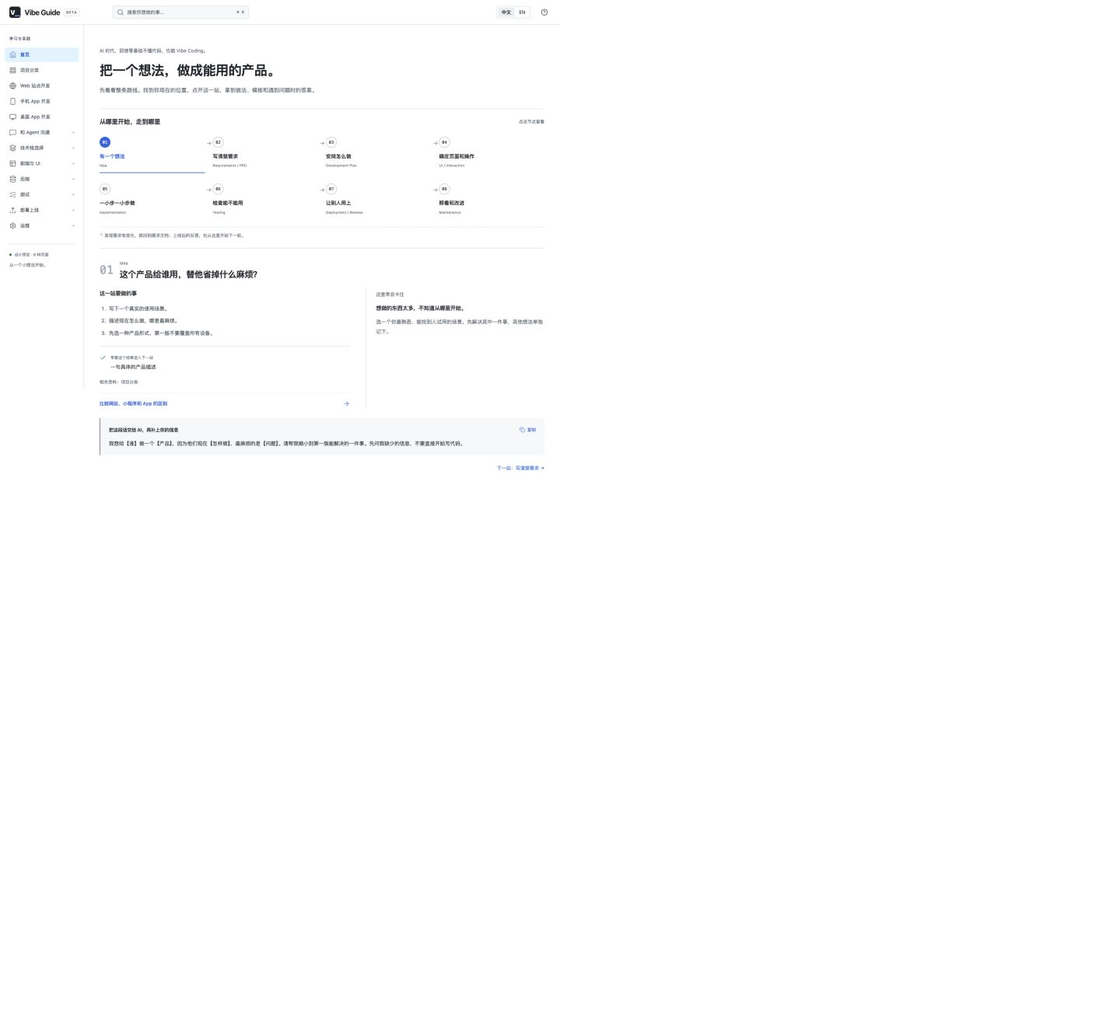
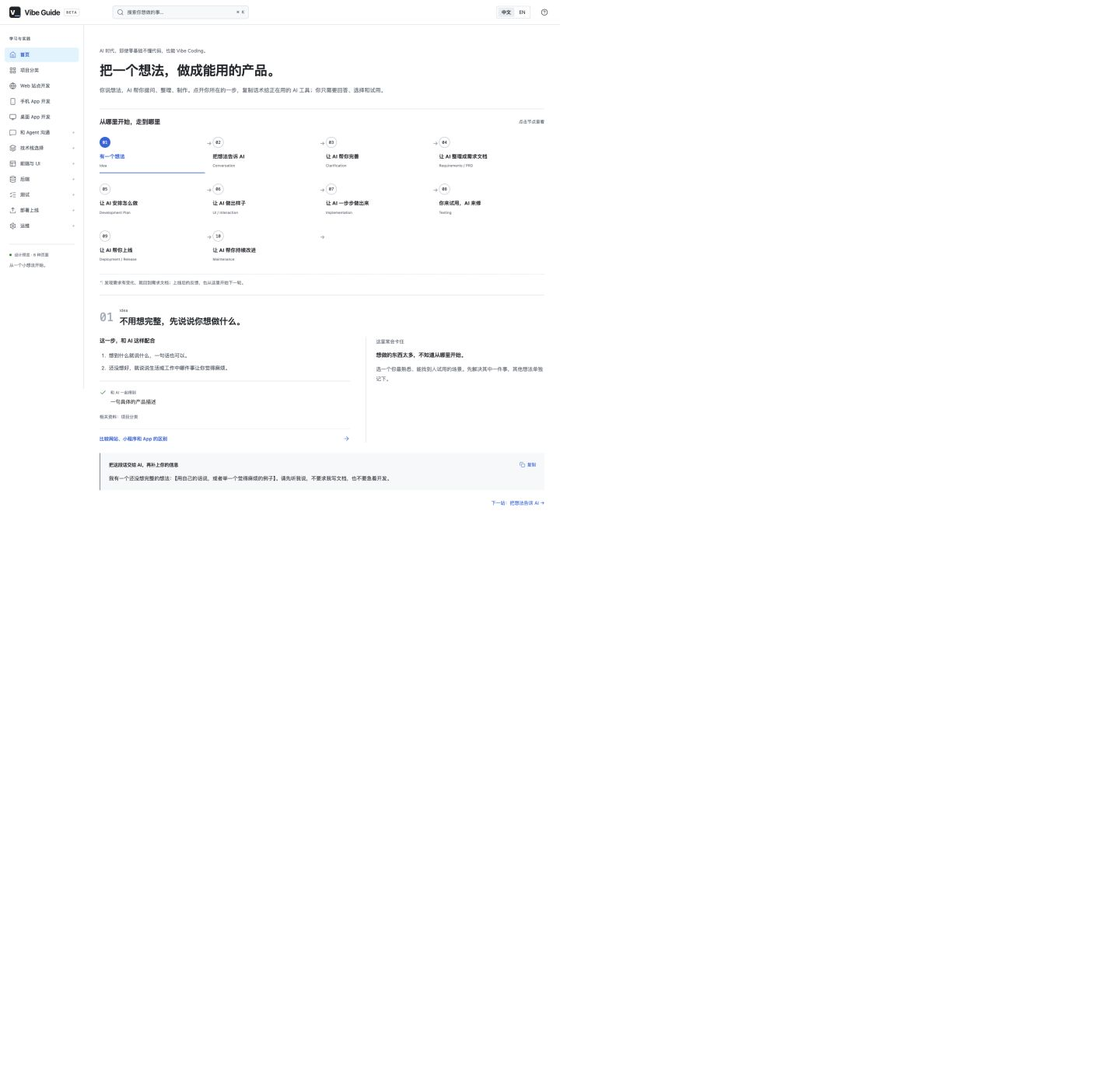
fix: make journey AI-led and reduce beginner effort

diff --git a/src/data/journey.ts b/src/data/journey.ts
@@ -1,12 +1,14 @@
 import type {Copy} from './site';
 export interface Stage {id:string; title:Copy; term:string; question:Copy; output:Copy; actions:Copy[]; problem:Copy; answer:Copy; prompt:Copy; modules:Copy;}
 export const journey:Stage[]=[
-{id:'idea',title:['有一个想法','Start with an idea'],term:'Idea',question:['这个产品给谁用，替他省掉什么麻烦？','Who is it for, and what problem will it solve?'],output:['一句具体的产品描述','A specific product description'],actions:[['写下一个真实的使用场景。','Write down one real situation.'],['描述现在怎么做，哪里最麻烦。','Describe the current process and its hardest part.'],['先选一种产品形式，第一版不要覆盖所有设备。','Choose one product type first, rather than every device.']],problem:['想做的东西太多，不知道从哪里开始。','Too many ideas. Where should I start?'],answer:['选一个你最熟悉、能找到人试用的场景。先解决其中一件事，其他想法单独记下。','Choose a familiar situation with someone who can try the result. Solve one problem and keep the other ideas for later.'],prompt:['我想给【谁】做一个【产品】，因为他们现在【怎样做】，最麻烦的是【问题】。请帮我缩小到第一版能解决的一件事。先问我缺少的信息，不要直接开始写代码。','I want to make [product] for [people]. Today they [current process], and the main difficulty is [problem]. Help me narrow the first version to one useful task. Ask for missing information before writing code.'],modules:['项目分类','Project types']},
-{id:'requirements',title:['写清楚需求','Write the requirements'],term:'Requirements / PRD',question:['用户要能做什么，做到什么程度才算完成？','What should people be able to do, and what counts as done?'],output:['需求文档：记录给谁用、做什么和完成标准','A requirements document: audience, features, and acceptance criteria'],actions:[['列出用户从打开产品到完成目标的操作。','List the steps from opening the product to completing the task.'],['明确第一版必须做、暂时不做的功能。','Separate essential features from things that can wait.'],['每个功能写一条你能亲手检查的结果。','Give each feature a result you can check yourself.']],problem:['AI 一直加功能，越做越偏。','AI keeps adding features and drifting off course.'],answer:['把“不做什么”写进文档。新想法先放进后续清单，修改本版范围前先确认影响。','Write down what is out of scope. Keep new ideas in a later list and review their impact before changing this version.'],prompt:['请把我们确认的想法整理成需求文档，包含：使用者、解决的问题、主要操作流程、第一版功能、暂不做的功能、每项功能的检查方法。把还没确定的问题单独列出，不要替我猜。先给我检查，不开始开发。','Turn our agreed idea into a requirements document: users, problem, main flow, first-version features, excluded features, and a check for each feature. List unresolved questions separately rather than guessing. Let me review it before development.'],modules:['和 Agent 沟通 · 项目分类','Talking to agents · Project types']},
-{id:'plan',title:['安排怎么做','Plan the build'],term:'Development Plan',question:['用什么制作，先做哪一步，需要准备哪些账号和资料？','What will we use, what comes first, and what must be prepared?'],output:['开发文档：把需求变成制作方案和任务顺序','A development plan: tools, decisions, and ordered tasks'],actions:[['把已确认的需求文档交给 AI。','Give AI the agreed requirements document.'],['说明预算、设备、资料是否需要保存或多人共享。','State your budget, devices, and storage or sharing needs.'],['要求每个任务都有能打开检查的小成果。','Ask for a small, inspectable result from every task.']],problem:['AI 推荐一堆技术名字，我根本不知道怎么选。','AI lists technologies I don’t know how to choose.'],answer:['先让它解释每项技术解决什么问题、是否收费、为什么现在需要。不理解的选择先说明，再写入方案。','Ask what each tool solves, whether it costs money, and why it is needed now. Clarify the choice before adding it to the plan.'],prompt:['依据这份需求文档，制定开发文档：页面与主要操作、资料怎么保存、建议的技术和选择理由、需要我准备的账号与费用、分步任务、每一步如何检查。用普通人能理解的语言解释技术名称。未确认的选择标记待确认，不要直接开工。','Create a development plan from these requirements: pages and flows, data storage, proposed tools with reasons, accounts and costs, ordered tasks, and checks for each step. Explain technical names in plain language. Mark unresolved choices rather than starting immediately.'],modules:['技术栈选择 · 后端 · 和 Agent 沟通','Choosing a stack · Backend · Talking to agents']},
-{id:'ui',title:['确定页面和操作','Shape the interface'],term:'UI / Interaction',question:['页面长什么样，点一个地方之后会发生什么？','What will people see, and what happens when they click?'],output:['页面草图和交互说明','Page sketches and interaction notes'],actions:[['先排列内容和主要操作，再确定颜色和细节。','Arrange content and main actions before choosing visual details.'],['看到想要的组件时，找到名字、演示和描述话术。','Find the name, demo, and description of the component you want.'],['说明等待、没内容、出错时分别显示什么。','Describe loading, empty, and error states.']],problem:['我知道想要什么样子，却不知道怎么告诉 AI。','I can picture it, but don’t know what to tell AI.'],answer:['把截图圈出具体区域，补充操作前后会发生什么。例如 Tabs（标签页）：点击不同标题，在同一块区域切换内容，不跳到新页面。','Mark the relevant area in a screenshot and describe before-and-after behavior. For example, tabs switch content in one area when you click a label, without opening a new page.'],prompt:['这里需要 Tabs（标签页）：顶部显示“介绍、价格、常见问题”，默认显示介绍。点击标题只切换下方内容，不打开新页面；当前标题有清楚的选中状态。手机上也能使用，键盘能切换。请先做这个局部让我检查，再应用到完整页面。','Add tabs labeled Overview, Pricing, and FAQ. Show Overview initially. Clicking a tab should change the content below without opening a new page, with a clear selected state. Support phones and keyboard navigation. Show this component for review before adding it to the whole page.'],modules:['前端与 UI → 组件词典（原 HTML 分支，待迁移）','Frontend & UI → Component dictionary (legacy branch, migration pending)']},
-{id:'build',title:['一小步一小步做','Build in small steps'],term:'Implementation',question:['先让哪条操作真正走通？','Which flow should work first?'],output:['一个能运行、能亲手操作的版本','A working version you can try'],actions:[['按开发文档一次完成一个任务。','Work on one task from the plan at a time.'],['自己打开结果，不只看 AI 的完成描述。','Open the result yourself rather than relying on AI’s summary.'],['每个可用版本保存一个可恢复的记录。','Keep a recoverable snapshot of each working version.']],problem:['昨天还能用，今天改完却坏了。','It worked yesterday, but today’s change broke it.'],answer:['让 AI 比较上一个可用版本和本次改动，先定位受影响的操作。恢复前说明会丢掉哪些改动，不要盲目覆盖。','Ask AI to compare the last working version with the changes and identify the affected flow. Before restoring, check which changes would be lost.'],prompt:['按开发文档只完成下一个任务【任务名】，保持其他已完成的功能不变。完成后告诉我怎样打开、点哪里、预期看到什么，并列出未完成部分。检查通过后记录这个可用版本，再继续。','Complete only the next task [name] from the development plan. Preserve existing behavior. Tell me how to open it, what to click, and what to expect, and list anything unfinished. After checking, save a recoverable version before continuing.'],modules:['Web / 手机 / 桌面开发 · 和 Agent 沟通','Web / Mobile / Desktop development · Talking to agents']},
-{id:'test',title:['检查能不能用','Check it works'],term:'Testing',question:['按真实用户的方式操作，会在哪里出问题？','Where does it fail when someone actually uses it?'],output:['检查结果和待修复问题清单','Test results and a list of issues'],actions:[['对照需求文档，一项一项实际操作。','Try every acceptance check in the requirements.'],['试试空内容、重复点击、错误输入和网络异常。','Try empty fields, repeated clicks, invalid input, and connection failures.'],['记录操作步骤、期待结果和实际结果。','Record steps, expected results, and actual results.']],problem:['AI 说测试通过，我点开还是有问题。','AI says tests passed, but I still see a problem.'],answer:['测试通过只说明它检查过的部分。把你实际失败的步骤交给 AI，让它修复后重新走同一条流程。','A passed test only covers what was checked. Give AI your failing steps, then repeat that exact flow after the fix.'],prompt:['我执行了【步骤】，期待【结果】，实际【现象】。请先找原因，再做最小修复。修复后重复这些步骤，并检查相关功能有没有受影响。分别说明自动检查和实际操作的结果，没有检查的部分明确列出。','I followed [steps], expected [result], but saw [actual behavior]. Find the cause and make a focused fix. Repeat these steps and check related behavior. Separate automated checks from actual interaction results, and list anything untested.'],modules:['测试 · 后端 · 前端与 UI','Testing · Backend · Frontend & UI']},
-{id:'launch',title:['让别人用上','Release it'],term:'Deployment / Release',question:['离开你的电脑，别人也能打开或安装吗？','Can someone else open or install it away from your computer?'],output:['可访问的网址或可安装的发布版本','A usable public link or installable release'],actions:[['确认发布渠道、账号、费用和需要提供的材料。','Confirm the channel, account, costs, and required materials.'],['检查公开内容不包含密码、密钥和私人测试资料。','Check that public files exclude passwords, keys, and private test data.'],['从正式入口再走一遍主要操作，并准备恢复办法。','Try the main flow through the released version and prepare a recovery plan.']],problem:['本机可以用，发给别人却打不开。','It works for me, but other people cannot open it.'],answer:['确认分享的是正式网址或安装包，而不是只在本机可用的预览地址。记录对方设备和具体提示，再检查。','Check that you shared a released URL or installer rather than a local preview address. Record the other person’s device and exact message.'],prompt:['请根据我的产品类型列出发布步骤、费用和所需账号。先检查发布包不含私人资料，并准备恢复到上一版的方法。发布前让我确认目标和费用；发布后从正式入口验证主要流程，区分已完成和仍需我操作的部分。','List release steps, costs, and accounts for this product type. Check for private data in the release and prepare a way back to the previous version. Let me confirm the destination and costs before release. Verify the main flow through the live entry point and state what still needs my action.'],modules:['部署上线 · 项目对应平台','Deployment · Your target platform']},
-{id:'maintain',title:['照看和改进','Maintain and improve'],term:'Maintenance',question:['有人使用之后，怎样保持可用、控制费用并改进？','How will it stay useful, reliable, and affordable?'],output:['维护清单和下一版计划','A maintenance checklist and next-version plan'],actions:[['记录费用、到期时间和重要资料的备份办法。','Record costs, renewal dates, and backup arrangements.'],['收集具体使用问题，优先修复影响主要操作的故障。','Collect specific problems and prioritize broken core flows.'],['更新前保存旧版本，更新后再检查原有功能。','Save the previous version before updates and recheck existing flows.']],problem:['每次加新功能，旧功能就出问题。','New features keep breaking existing ones.'],answer:['保留一份主要操作检查表，每次更新都重复检查。较大的新需求重新回到需求节点，确认范围后再做。','Keep a core-flow checklist and repeat it with every update. Return larger changes to the requirements stage before building.'],prompt:['请为当前产品整理维护清单：服务与费用、续期时间、备份和恢复办法、每次更新必须检查的操作。把用户反馈分成故障和新需求；先处理故障，新需求回到需求文档确认后再安排。','Create a maintenance checklist: services and costs, renewals, backups and recovery, and checks required for each update. Separate bug reports from new requests. Fix problems first and confirm new requests in the requirements before scheduling them.'],modules:['运维 · 测试 · 需求文档','Maintenance · Testing · Requirements']}
+{id:'idea',title:["有一个想法", "Have an idea"],term:'Idea',question:["不用想完整，先说说你想做什么。", "It does not need to be complete. What would you like to make?"],output:['一句具体的产品描述','A specific product description'],actions:[["想到什么就说什么，一句话也可以。", "Say whatever you have in mind. One sentence is enough."], ["还没想好，就说说生活或工作中哪件事让你觉得麻烦。", "If you are unsure, describe something frustrating at work or in daily life."]],problem:['想做的东西太多，不知道从哪里开始。','Too many ideas. Where should I start?'],answer:['选一个你最熟悉、能找到人试用的场景。先解决其中一件事，其他想法单独记下。','Choose a familiar situation with someone who can try the result. Solve one problem and keep the other ideas for later.'],prompt:["我有一个还没想完整的想法：【用自己的话说，或者举一个觉得麻烦的例子】。请先听我说，不要求我写文档，也不要急着开发。", "I have a rough idea: [describe it in your own words, or give an example of something frustrating]. Help me explore it without asking me to write a document or starting development yet."],modules:['项目分类','Project types']},
+{"id": "tell", "title": ["把想法告诉 AI", "Tell AI your idea"], "term": "Conversation", "question": ["把刚才那句话发给 AI，不用换成专业说法。", "Send your idea to AI in your own words."], "output": ["一段已经开始的对话", "A conversation you have started"], "actions": [["打开你正在用的 AI 工具，把想法输入或说给它听。", "Open the AI tool you use and type or speak your idea."], ["不知道怎么开口，就复制下面这段话，补上一句话。", "If you are unsure how to start, copy the prompt below and add a sentence."]], "problem": ["我连应该告诉 AI 哪些信息都不知道。", "I do not know what information AI needs."], "answer": ["直接告诉它“我不懂开发，请你问我”。不用先填写一大张表，也不用提前认识技术名词。", "Tell it: “I do not know development. Please ask me what you need.” You do not need a long form or technical vocabulary first."], "prompt": ["我不懂开发，想做【用一句话说你的想法】。请你先和我聊聊，帮我弄清楚这个东西可以怎么做。不要让我先写需求文档，也不要一上来就写代码。", "I do not know development. I want to make [your idea in one sentence]. Talk it through with me and help me understand what it could be. Do not ask me to write requirements first or start coding immediately."], "modules": ["和 Agent 沟通", "Talking to agents"]},
+{"id": "refine", "title": ["让 AI 帮你完善", "Let AI help refine it"], "term": "Clarification", "question": ["让 AI 一次问一个问题，你按实际情况回答就好。", "Let AI ask one question at a time. Answer from your own experience."], "output": ["你和 AI 确认过的第一版想法", "A first-version idea you and AI have agreed on"], "actions": [["让 AI 问清楚给谁用、想解决什么麻烦。", "Let AI ask who it is for and what problem it should solve."], ["回答不上来时，让 AI 给几个例子，你选更接近的。", "If you cannot answer, ask AI for examples and choose the closest."], ["让 AI 建议第一版先做什么，你确认有没有偏离原意。", "Ask AI to suggest a small first version, then check that it still matches your idea."]], "problem": ["AI 一下问了十几个问题，看着就不想做了。", "AI asks a dozen questions at once and it feels overwhelming."], "answer": ["让它一次只问一个，用生活中的例子解释。你可以回答“不知道”，让它给出建议和理由，再由你选择。", "Ask for one question at a time with everyday examples. You can say “I do not know” and ask it for a recommendation and reasons."], "prompt": ["请帮我完善这个想法，一次只问一个问题。我不确定时，给我两三个容易理解的例子，并说明你推荐哪个、为什么。聊完后，用普通话复述第一版要做什么、暂时不做什么，让我确认。", "Help me refine the idea, asking one question at a time. When I am unsure, give two or three plain-language examples and explain your recommendation. When we finish, summarize what the first version includes and leaves out, and let me confirm."], "modules": ["和 Agent 沟通 · 项目分类", "Talking to agents · Project types"]},
+{id:'requirements',title:["让 AI 整理成需求文档", "Let AI document the idea"],term:'Requirements / PRD',question:["聊清楚之后，让 AI 整理，你来看看有没有理解错。", "Once you have talked it through, let AI write it up and check that it understood."],output:['需求文档：记录给谁用、做什么和完成标准','A requirements document: audience, features, and acceptance criteria'],actions:[["把前面聊过的内容交给 AI，让它整理成一份需求文档。", "Ask AI to turn the conversation into a requirements document."], ["你只需要看看：是不是你想做的东西，有没有多做或漏掉。", "Check whether it matches your idea and includes too much or too little."], ["不明白的地方让 AI 举例，确认后让它保存文档。", "Ask AI for examples where needed, then have it save the agreed document."]],problem:['AI 一直加功能，越做越偏。','AI keeps adding features and drifting off course.'],answer:['把“不做什么”写进文档。新想法先放进后续清单，修改本版范围前先确认影响。','Write down what is out of scope. Keep new ideas in a later list and review their impact before changing this version.'],prompt:['请把我们确认的想法整理成需求文档，包含：使用者、解决的问题、主要操作流程、第一版功能、暂不做的功能、每项功能的检查方法。把还没确定的问题单独列出，不要替我猜。先给我检查，不开始开发。','Turn our agreed idea into a requirements document: users, problem, main flow, first-version features, excluded features, and a check for each feature. List unresolved questions separately rather than guessing. Let me review it before development.'],modules:['和 Agent 沟通 · 项目分类','Talking to agents · Project types']},
+{id:'plan',title:["让 AI 安排怎么做", "Let AI plan the build"],term:'Development Plan',question:["让 AI 推荐做法并解释，你只需要确认是否适合自己。", "Let AI recommend and explain a plan. Decide whether it fits your needs."],output:['开发文档：把需求变成制作方案和任务顺序','A development plan: tools, decisions, and ordered tasks'],actions:[["让 AI 读取需求文档，推荐制作方式并说清理由。", "Ask AI to read the requirements and recommend how to build, with reasons."], ["按 AI 的提问补充预算和设备；不懂技术名称就让它解释。", "Answer questions about budget and devices. Ask it to explain unfamiliar terms."], ["让 AI 整理开发文档，说明每一步会给你看什么结果。", "Have AI write the development plan and explain what you will see at each step."]],problem:['AI 推荐一堆技术名字，我根本不知道怎么选。','AI lists technologies I don’t know how to choose.'],answer:['先让它解释每项技术解决什么问题、是否收费、为什么现在需要。不理解的选择先说明，再写入方案。','Ask what each tool solves, whether it costs money, and why it is needed now. Clarify the choice before adding it to the plan.'],prompt:['依据这份需求文档，制定开发文档：页面与主要操作、资料怎么保存、建议的技术和选择理由、需要我准备的账号与费用、分步任务、每一步如何检查。用普通人能理解的语言解释技术名称。未确认的选择标记待确认，不要直接开工。','Create a development plan from these requirements: pages and flows, data storage, proposed tools with reasons, accounts and costs, ordered tasks, and checks for each step. Explain technical names in plain language. Mark unresolved choices rather than starting immediately.'],modules:['技术栈选择 · 后端 · 和 Agent 沟通','Choosing a stack · Backend · Talking to agents']},
+{id:'ui',title:["让 AI 做出样子", "Let AI show the design"],term:'UI / Interaction',question:["把喜欢的样子交给 AI，先看效果再调整。", "Show AI what you like, then review and adjust its preview."],output:['页面草图和交互说明','Page sketches and interaction notes'],actions:[["给 AI 一张参考图，或从组件示例中选一个喜欢的效果。", "Give AI a reference image or choose a component example you like."], ["让 AI 先做一个能看的页面，你指出哪里喜欢、哪里不对。", "Ask AI for a page preview. Point out what you like and what feels wrong."], ["让 AI 补齐等待、空内容和出错时的显示，再带你检查。", "Ask AI to add loading, empty, and error states and guide you through checking them."]],problem:['我知道想要什么样子，却不知道怎么告诉 AI。','I can picture it, but don’t know what to tell AI.'],answer:['把截图圈出具体区域，补充操作前后会发生什么。例如 Tabs（标签页）：点击不同标题，在同一块区域切换内容，不跳到新页面。','Mark the relevant area in a screenshot and describe before-and-after behavior. For example, tabs switch content in one area when you click a label, without opening a new page.'],prompt:['这里需要 Tabs（标签页）：顶部显示“介绍、价格、常见问题”，默认显示介绍。点击标题只切换下方内容，不打开新页面；当前标题有清楚的选中状态。手机上也能使用，键盘能切换。请先做这个局部让我检查，再应用到完整页面。','Add tabs labeled Overview, Pricing, and FAQ. Show Overview initially. Clicking a tab should change the content below without opening a new page, with a clear selected state. Support phones and keyboard navigation. Show this component for review before adding it to the whole page.'],modules:['前端与 UI → 组件词典（原 HTML 分支，待迁移）','Frontend & UI → Component dictionary (legacy branch, migration pending)']},
+{id:'build',title:["让 AI 一步步做出来", "Let AI build it step by step"],term:'Implementation',question:["让 AI 按计划制作，每做好一小步就给你试。", "Have AI follow the plan and give you something to try after each small step."],output:['一个能运行、能亲手操作的版本','A working version you can try'],actions:[["让 AI 从开发文档中选出下一项任务并完成。", "Have AI pick and complete the next task from the development plan."], ["按 AI 给的打开方式试用，把不符合想法的地方告诉它。", "Try the result using AI’s instructions and tell it what does not match your idea."], ["让 AI 保存可恢复的版本，再继续下一项。", "Ask AI to save a recoverable version before continuing."]],problem:['昨天还能用，今天改完却坏了。','It worked yesterday, but today’s change broke it.'],answer:['让 AI 比较上一个可用版本和本次改动，先定位受影响的操作。恢复前说明会丢掉哪些改动，不要盲目覆盖。','Ask AI to compare the last working version with the changes and identify the affected flow. Before restoring, check which changes would be lost.'],prompt:["请读取开发文档，告诉我接下来应该做哪一项，并完成这一项。保持已完成的功能不变。完成后带我打开试用，说明点哪里、应该看到什么。等我检查后保存可恢复的版本，再继续。", "Read the development plan, identify the next task, and complete it without changing working features. Show me how to open and try it, what to click, and what to expect. After I check it, save a recoverable version before continuing."],modules:['Web / 手机 / 桌面开发 · 和 Agent 沟通','Web / Mobile / Desktop development · Talking to agents']},
+{id:'test',title:["你来试用，AI 来修", "You try it, AI fixes it"],term:'Testing',question:["AI 先检查，再带你实际用一遍；哪里不对就告诉它。", "Let AI check first, then guide you through trying it. Tell it what goes wrong."],output:['检查结果和待修复问题清单','Test results and a list of issues'],actions:[["让 AI 根据需求文档检查功能，并列出没检查到的部分。", "Ask AI to check features against the requirements and list anything untested."], ["让 AI 告诉你点哪里、应该看到什么，你照着试。", "Have AI tell you what to click and what to expect, then try it."], ["遇到问题，把现象或截图交给 AI，让它排查、修复并带你复查。", "Give AI the symptom or a screenshot so it can investigate, fix it, and guide a recheck."]],problem:['AI 说测试通过，我点开还是有问题。','AI says tests passed, but I still see a problem.'],answer:['测试通过只说明它检查过的部分。把你实际失败的步骤交给 AI，让它修复后重新走同一条流程。','A passed test only covers what was checked. Give AI your failing steps, then repeat that exact flow after the fix.'],prompt:["请先按需求文档检查当前版本，明确哪些实际检查过、哪些还没检查。然后带我一步步试用：每次告诉我点哪里、应该看到什么，等我反馈。发现问题后帮我排查和修复，再带我重试。", "Check this version against the requirements and state what was actually tested and what was not. Then guide me through trying it: tell me what to click and what to expect, and wait for my feedback. Investigate and fix any problems, then help me try again."],modules:['测试 · 后端 · 前端与 UI','Testing · Backend · Frontend & UI']},
+{id:'launch',title:["让 AI 帮你上线", "Let AI help you launch"],term:'Deployment / Release',question:["让 AI 处理能完成的发布步骤，需要你操作时再带着你做。", "Let AI handle the release steps it can, and guide you through the rest."],output:['可访问的网址或可安装的发布版本','A usable public link or installable release'],actions:[["让 AI 推荐发布方式，说明费用和你需要准备的账号。", "Ask AI to recommend a release method and explain costs and required accounts."], ["你确认目标和费用后，让 AI 完成能执行的步骤；账号验证由你处理。", "After confirming the destination and cost, let AI do what it can. Handle account verification yourself."], ["让 AI 检查正式入口，再请别人实际打开试一次。", "Have AI check the live entry point, then ask someone else to try it."]],problem:['本机可以用，发给别人却打不开。','It works for me, but other people cannot open it.'],answer:['确认分享的是正式网址或安装包，而不是只在本机可用的预览地址。记录对方设备和具体提示，再检查。','Check that you shared a released URL or installer rather than a local preview address. Record the other person’s device and exact message.'],prompt:['请根据我的产品类型列出发布步骤、费用和所需账号。先检查发布包不含私人资料，并准备恢复到上一版的方法。发布前让我确认目标和费用；发布后从正式入口验证主要流程，区分已完成和仍需我操作的部分。','List release steps, costs, and accounts for this product type. Check for private data in the release and prepare a way back to the previous version. Let me confirm the destination and costs before release. Verify the main flow through the live entry point and state what still needs my action.'],modules:['部署上线 · 项目对应平台','Deployment · Your target platform']},
+{id:'maintain',title:["让 AI 帮你持续改进", "Let AI help you improve it"],term:'Maintenance',question:["把使用反馈交给 AI，让它帮你修问题、安排下一版。", "Give AI feedback so it can help fix problems and plan the next version."],output:['维护清单和下一版计划','A maintenance checklist and next-version plan'],actions:[["让 AI 整理费用、续期和备份清单，需要你的操作逐项说明。", "Ask AI to organize costs, renewals, and backups and explain actions it needs from you."], ["把用户反馈发给 AI，让它区分故障和新想法，建议先处理什么。", "Send feedback to AI so it can separate bugs from ideas and suggest priorities."], ["确认改动后，让 AI 备份、修改并检查，再由你试用确认。", "After agreeing on changes, have AI back up, update, and check the product, then try it yourself."]],problem:['每次加新功能，旧功能就出问题。','New features keep breaking existing ones.'],answer:['保留一份主要操作检查表，每次更新都重复检查。较大的新需求重新回到需求节点，确认范围后再做。','Keep a core-flow checklist and repeat it with every update. Return larger changes to the requirements stage before building.'],prompt:['请为当前产品整理维护清单：服务与费用、续期时间、备份和恢复办法、每次更新必须检查的操作。把用户反馈分成故障和新需求；先处理故障，新需求回到需求文档确认后再安排。','Create a maintenance checklist: services and costs, renewals, backups and recovery, and checks required for each update. Separate bug reports from new requests. Fix problems first and confirm new requests in the requirements before scheduling them.'],modules:['运维 · 测试 · 需求文档','Maintenance · Testing · Requirements']}
 ];

diff --git a/docs/product-requirements.md b/docs/product-requirements.md
@@ -88,3 +88,7 @@
 ## 当前首页主线：产品制作节点图
 
 用户进一步明确：首页以“想法 → 需求文档 → 开发文档 → 页面与操作 → 开发 → 测试 → 部署上线 → 维护”组织，不以说教文章或重复栏目目录为主。每站提供操作、产出、常见障碍与答案、可复制提示词，以及下一站入口。专业术语配白话解释。UI 组件词典归属页面与交互节点的组件分支，原 HTML 是该分支的资料和体验基线。节点可用地址锚点直达；中英文切换保留节点。现阶段为可交互路线预览，完整子模块和旧词典迁移仍需继续实施。本方案替代此前首页内容排列。
+
+## AI 代做原则（当前措辞与内容标准）
+
+用户无需先掌握需求分析、文档编写和技术选型。首页从“有一个想法 → 把想法告诉 AI → 让 AI 帮你完善”开始，再由 AI 整理需求、规划开发、制作界面、实现、检查、协助发布和维护。用户负责提供真实情况、选择、试用与确认。问题一次一个，不知道时提供例子与建议；可由 AI 执行的工作不能写成用户必须自行完成。账号验证、费用确认与实际体验判断仍明确由用户处理，不暗示本站自动执行或 AI 已经完成未验证的工作。

diff --git a/docs/preview-review.md b/docs/preview-review.md
@@ -38,3 +38,7 @@
 ## 首页第三版：产品制作节点图
 
 以八阶段路线替代首页文章排列。每站包含行动、交付物、障碍解答和提示词。节点地址可直接访问，中英切换保留位置。浏览器验证需求节点、复制成功及语言切换；320px 英文无横向溢出。类型、构建和锚点检查通过。当前是阶段指引，不代表所有资料模块及原 UI 组件词典已经迁移。首页截图已更新。
+
+## 首页第四版：AI 引导完成
+
+当前为十节点，增加先表达、再由 AI 逐个提问完善的过程。原八阶段记录保留为历史。中文版桌面截图已更新；旧英文/手机版截图仅代表此前布局，不代表最新措辞。当前中英文文案在代码中同步更新，类型、构建和内部链接验证通过，浏览器已确认新增完善节点实际呈现。
